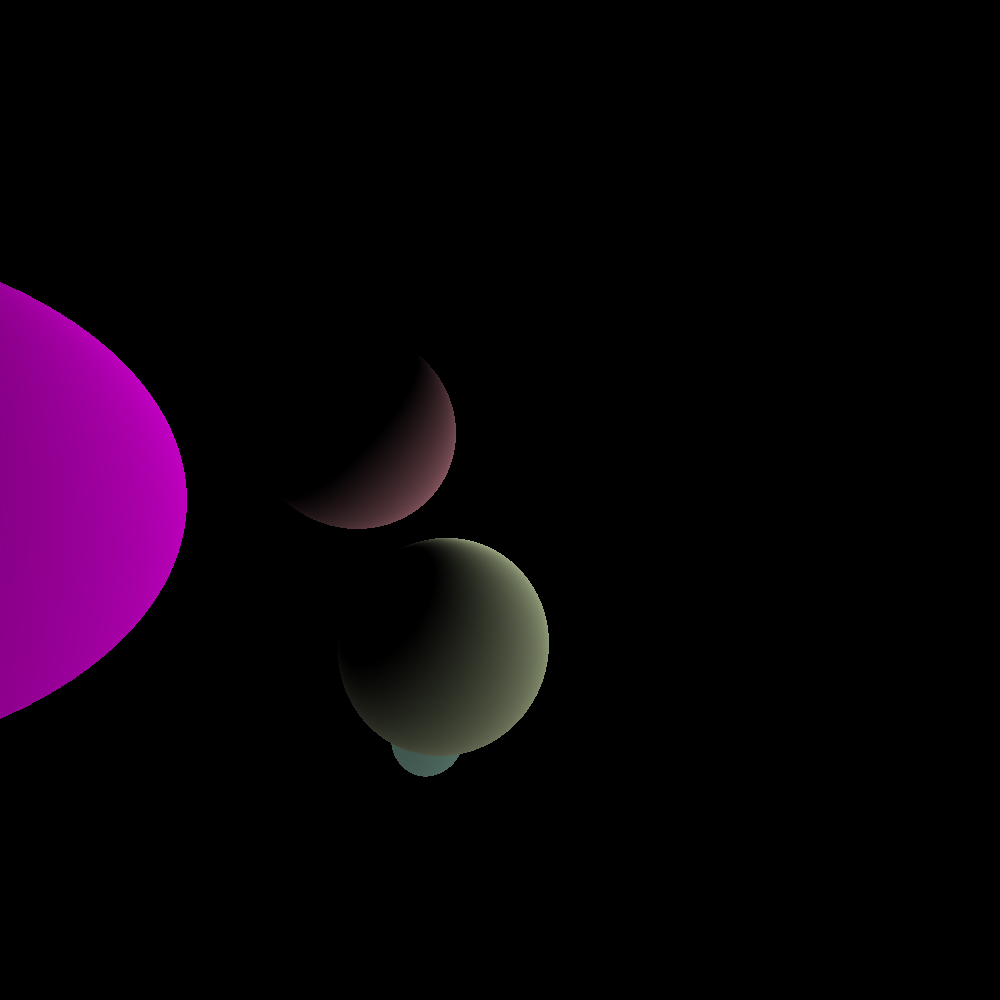
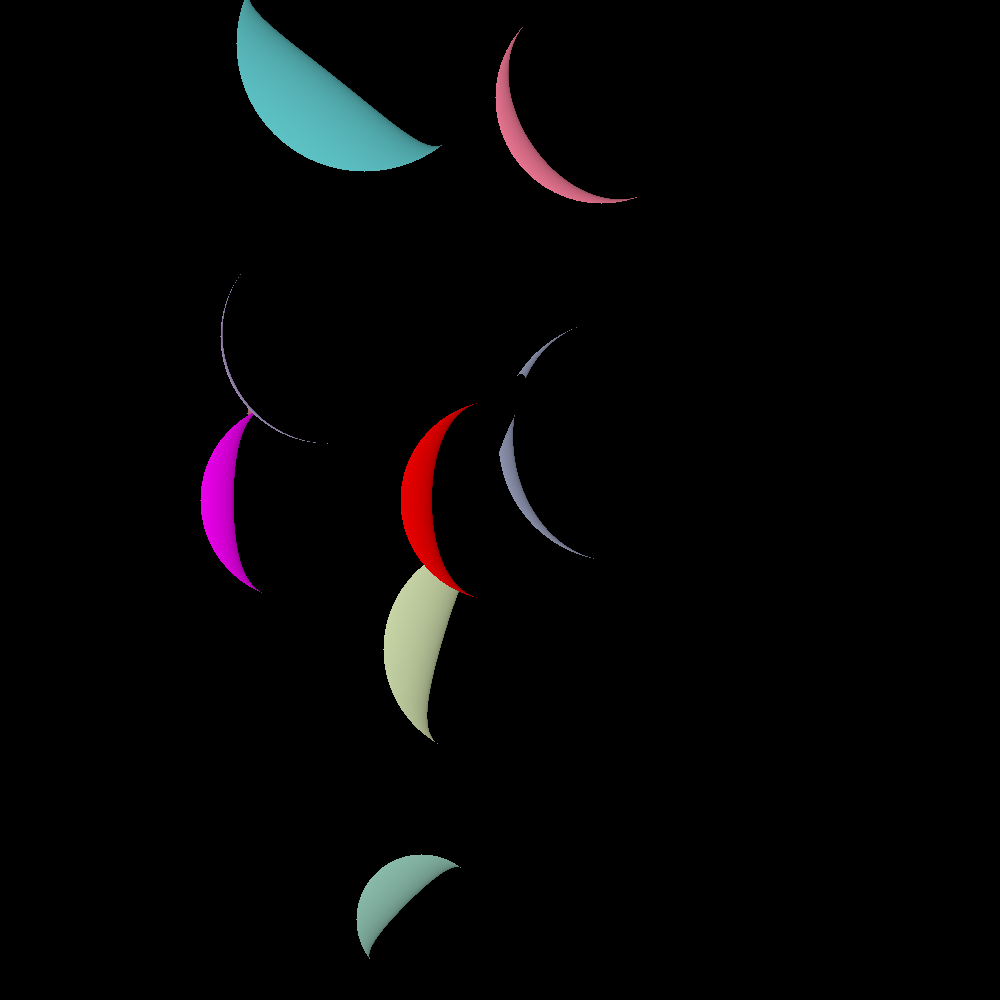
i count it

diff --git a/8/sdl2_base/main.cpp b/8/sdl2_base/main.cpp
@@ -25,6 +25,7 @@ typedef struct color
 		o.x = r;
 		o.y = g;
 		o.z = b;
+		return o;
 	}
 
 	void toCol(vec i) {
@@ -215,9 +216,9 @@ vec Normalise(vec v)
 vec getNormal(point P, sphere obj, vec cDir)
 {
 	vec N;
-	N.x = -(obj.pos.x - P.x);
-	N.y = -(obj.pos.x - P.y);
-	N.z = -(obj.pos.z - P.z);
+	N.x = P.x - obj.pos.x;
+	N.y = P.y - obj.pos.y;
+	N.z = P.z - obj.pos.z;
 	N = Normalise(N);
 	return N;
 }
@@ -231,11 +232,29 @@ vec cp(vec a, vec b)
 	return result;
 }
 
+bool shadow(cam c, light l, hit h, sphere *sphereObjs, int sphereCount)
+{
+	vec lDir;
+	lDir.x = l.pos.x - h.P.x;
+	lDir.y = l.pos.y - h.P.y;
+	lDir.z = l.pos.z - h.P.z;
+	lDir = Normalise(lDir);
+	for (int i = 0; i < sphereCount; i++)
+	{
+		hit temp = traceObj(h.P, lDir, sphereObjs[i]);
+		if (temp.hit == 1 && temp.dist < h.dist && temp.obj.pos.x != h.obj.pos.x && temp.obj.pos.y != h.obj.pos.y && temp.obj.pos.z != h.obj.pos.z)
+		{
+			return 1;
+		}
+	}
+	return 0;
+}
+
 color shade(cam c, light l, hit h, float roughness)
 {
-	l.pos.x = c.pos.x;
-	l.pos.y = c.pos.y;
-	l.pos.z = c.pos.z;
+	// l.pos.x = c.pos.x;
+	// l.pos.y = c.pos.y;
+	// l.pos.z = c.pos.z;
 	vec lDir;
 	lDir.x = l.pos.x - h.P.x;
 	lDir.y = l.pos.y - h.P.y;
@@ -258,12 +277,12 @@ color shade(cam c, light l, hit h, float roughness)
 	}
 	// printf("(%f, %f, %f)\n", incident.r, incident.g, incident.b);
 	vec H;
-	// H.x = (c.dir.x + lDir.x) / 2;
-	// H.y = (c.dir.y + lDir.y) / 2;
-	// H.z = (c.dir.z + lDir.z) / 2;
-	H.x = 0.5;
-	H.y = 0.5;
-	H.z = 0.5;
+	H.x = (c.dir.x + lDir.x) / 2;
+	H.y = (c.dir.y + lDir.y) / 2;
+	H.z = (c.dir.z + lDir.z) / 2;
+	// H.x = 0.5;
+	// H.y = 0.5;
+	// H.z = 0.5;
 	color reflectivity;
 	reflectivity.r = pow(dp(getNormal(h.P, h.obj, c.dir), H), 1 / roughness) * h.obj.col.r;
 	reflectivity.g = pow(dp(getNormal(h.P, h.obj, c.dir), H), 1 / roughness) * h.obj.col.g;
@@ -317,16 +336,17 @@ void draw(SDL_Renderer *ren, cam c, light l, sphere *objs, int objCount)
 					cam newC;
 					newC.dir = d;
 					newC.pos = o;
-					color s = shade(newC, l, h, 1);
+					color s = shade(newC, l, h, 10);
 					// printf("(%f, %f, %f)\n", s.r, s.g, s.b);
-					SDL_SetRenderDrawColor(ren, floor(s.r), floor(s.g), floor(s.b), 255);
+					bool shad = shadow(newC, l, h, objs, objCount);
+					SDL_SetRenderDrawColor(ren, floor(s.r) * !shad, floor(s.g) * !shad, floor(s.b) * !shad, 255);
 					SDL_RenderDrawPoint(ren, x + 500, y + 500);
 					break;
 				}
 			}
 		}
 	}
-	// printf("drawn");
+	printf("drawn");
 	fflush(stdout);
 	SDL_RenderPresent(ren);
 	// printf("drawn");
@@ -359,28 +379,28 @@ int main(int argc, char *argv[])
 	c.fov = 20;
 	c.nearClip = 1;
 	c.farClip = 1000000;
-	c.orthographic = false;
+	c.orthographic = 1;
 
 	light l;
 	l.brightness = 10000;
 	l.col.r = 1;
 	l.col.g = 1;
 	l.col.b = 1;
-	l.pos.x = 100;
-	l.pos.y = 100;
-	l.pos.z = 100;
+	l.pos.x = -500;
+	l.pos.y = 0;
+	l.pos.z = 0;
 
-	int objectCount = 10;
+	int objectCount = 20;
 
 	sphere *temp = (sphere *)malloc(sizeof(sphere) * objectCount);
 
-	// temp[0].pos.x = 0;
-	// temp[0].pos.y = 0;
-	// temp[0].pos.z = 100;
-	// temp[0].col.r = 1;
-	// temp[0].col.g = 0;
-	// temp[0].col.b = 0;
-	// temp[0].r = 200;
+	temp[0].pos.x = 0;
+	temp[0].pos.y = 0;
+	temp[0].pos.z = 100;
+	temp[0].col.r = 1;
+	temp[0].col.g = 0;
+	temp[0].col.b = 0;
+	temp[0].r = 100;
 	temp[1].pos.x = -200;
 	temp[1].pos.y = 0;
 	temp[1].pos.z = 100;
